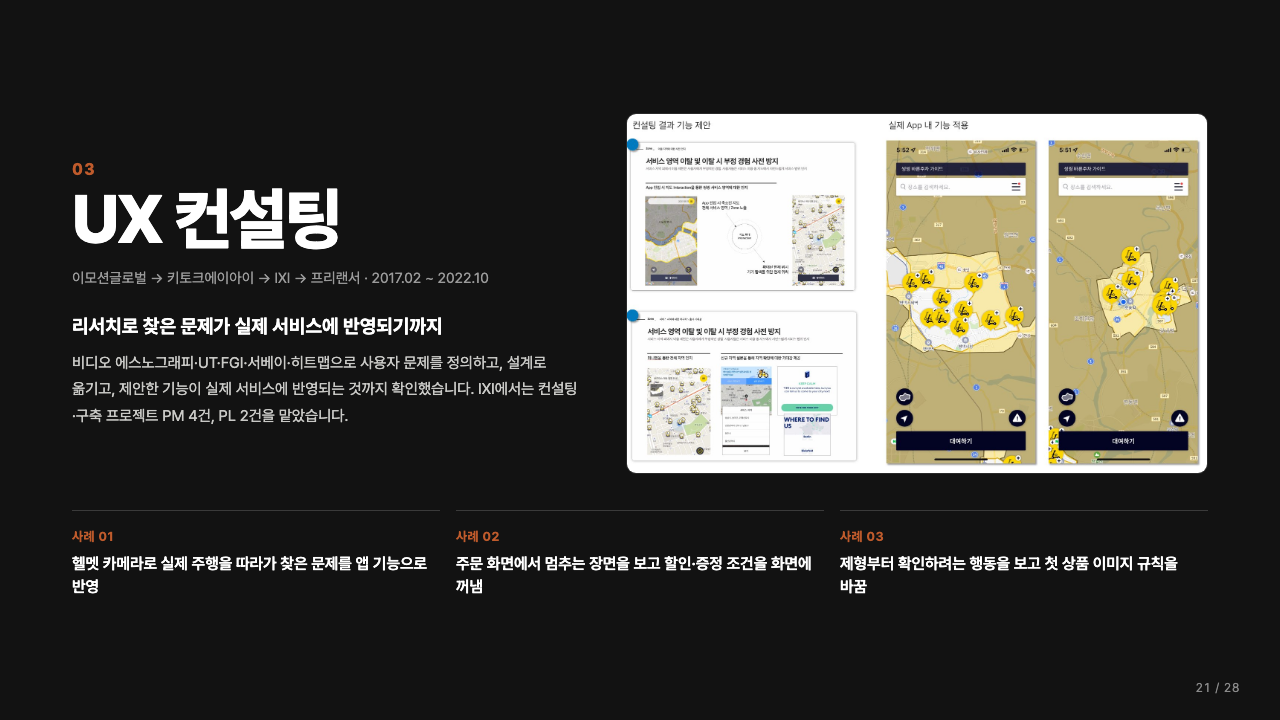
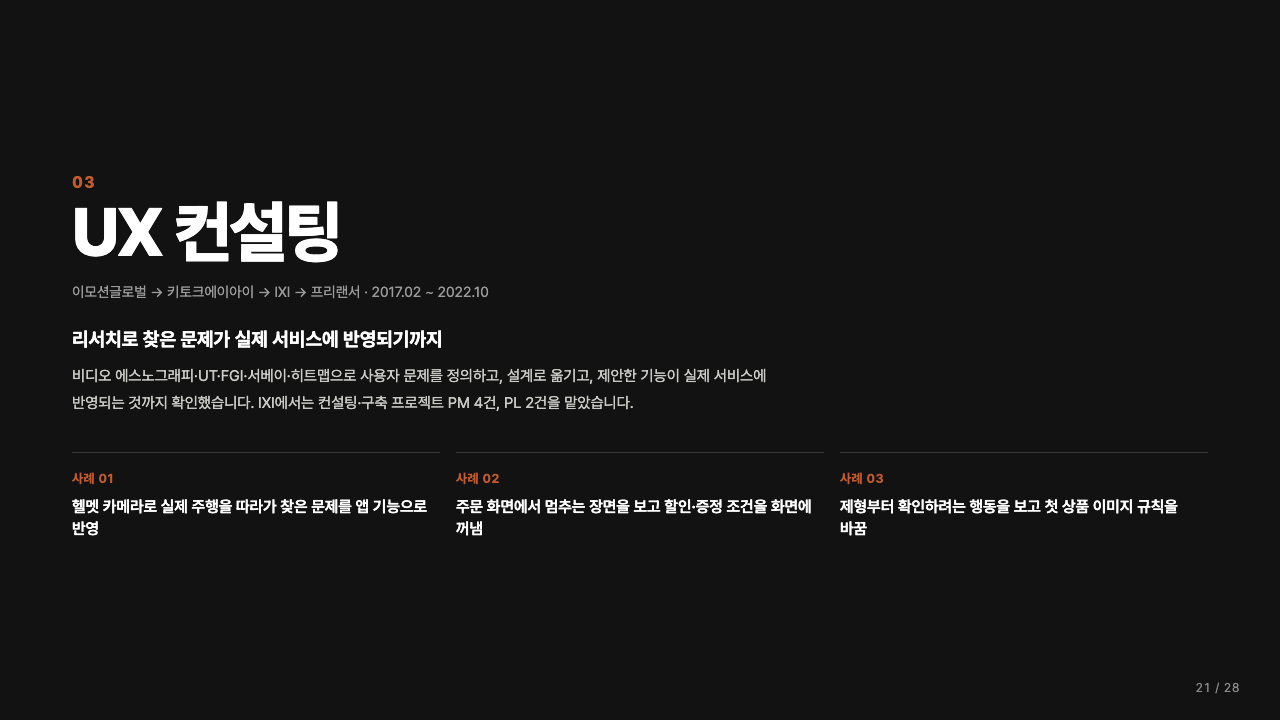
docs: review checklist for pages 12-28, handoff note

Changed region(s): [[0.0312, 0.1528, 0.9688, 0.825]]

diff --git a/docs/review/next-review-checklist.md b/docs/review/next-review-checklist.md
@@ -1,0 +1,46 @@
+# 웹 초안 28장 — 검토 체크리스트 (12 ~ 28쪽 신규)
+
+보는 곳: 슬라이드 보기 http://localhost:5180/drafts/web/deck · 장별 이미지 `docs/review/slides/NN-*.png`
+관점: PO 채용을 고민하는 리드 PO가 읽었을 때 이해되는지. 모든 장이 16:9 한 장 안에 들어감(자동 축소 없음).
+
+## 전체 구성 (28장)
+
+| 쪽 | 구역 | 비고 |
+|---|---|---|
+| 1 ~ 4 | 히어로 · 요약 · 숫자 · 경력 | 이전에 확정 |
+| 5 | **01 AIMMO** 장 표지(검정) | 이전에 확정 |
+| 6 ~ 8 | 사례 01 검수 (표지 · 문제 · 해결) | 이전에 확정 |
+| 9 ~ 11 | 사례 02 폴리라인 포인트 (표지 · 문제 · 해결) | 이전에 확정 |
+| **12 ~ 14** | 사례 03 사용자 조사 세션 (표지 · 문제 · 해결) | 신규 |
+| **15** | LG AI연구원 온프레미스 납품 (1장) | 신규 |
+| **16** | AIMMO 제품 결정 기록 (1장) | 신규 |
+| **17** | **02 AI 전환** 장 표지(검정) | 신규 |
+| **18 ~ 20** | LG화학 제안 · AX 프레임워크 · 기업 AI 교육 (각 1장) | 신규 |
+| **21** | **03 UX 컨설팅** 장 표지(검정) | 신규 |
+| **22 ~ 25** | 씽씽(2장) · Amway · 정관장 | 신규 |
+| **26 ~ 28** | 그 밖의 프로젝트 · 사이드 프로젝트 · 마지막 장 | 신규 |
+
+## 내가 추론해서 쓴 문장 (사실 확인 필요)
+
+- **13쪽 사례 03 문제**: "요청은 흩어져 **우선순위가 서지 않음**" — 흩어져 있었다는 건 확정된 사실이고, 우선순위 부분은 추론
+- **13쪽 예시 상자**: "라벨링이 빠진 포인트를 화면에서 하나씩 눈으로 찾아야 했음" — 세션 개선 항목(누락 포인트 시인성 개선)에서 거꾸로 만든 예시
+- **16쪽 결정 기록 근거 칸**
+  - 1행 유효성 검사: "프로젝트가 다양해지며 개별 설정 방식으로는 확장이 어려움" — 카드의 "프로젝트 다양화에 확장 가능"을 근거로 풀어 씀
+  - 3행 RV 연동: "작업·참조 리소스 조합이 네 가지" — 사실이지만, 그래서 단계적으로 냈다는 이유는 기록에 없음
+- **17쪽 장 이름 "AI 전환"**: J-Curve와 교육을 하나로 묶으려고 지은 이름
+- **23쪽 씽씽 제목**: "운영비가 걸린 문제는 실제 주행으로 검증" — Geo-Fence ↔ 비디오 에스노그래피 연결은 카드에 있는 사실. 나머지 두 문제와 리서치의 1:1 연결은 기록에 없어서 표로 짝짓지 않고 두 목록으로 나눔
+
+## 리드 PO 관점에서 남은 약점
+
+1. **사례 03 해결(14쪽)** — 성과가 기능 목록이라 "그래서 효율이 얼마나 올랐나"가 없음. 세션 출신 개선의 체감 효과(예: 작업 시간, 오류 감소)가 기억나면 숫자 한 줄 추가 권장
+2. **LG 온프렘(15쪽)** — 이미지 없음. 납품 화면을 쓸 수 없다면 지금처럼 글 3칸으로 충분하지만, "최소 수정"이 얼마나 최소였는지(예: 바꾼 화면 수, 재사용 비율)가 있으면 결정이 훨씬 설득력 있음
+3. **결정 기록(16쪽)** — 리드 PO가 가장 좋아할 장. 각 결정의 "결과"가 아직 계획 수준인 행(성능 개선 로드맵, 모달 대체 여부)이 있음. 실제로 어떻게 끝났는지 알면 보강
+4. **AI 전환(18 ~ 20쪽)** — 미수주 제안이 사례 01이라, AI 전환 장의 첫인상이 "결과 없음"으로 읽힐 수 있음. 순서를 교육(진행 중, 실적 있음) → 프레임워크 → 제안으로 바꾸는 것도 방법
+5. **UX 장(21 ~ 25쪽)** — 사례 01(씽씽)만 2장, Amway·정관장은 1장. 이미지가 산출물(와이어프레임)이라 결과가 눈에 덜 들어옴
+6. **이미지 중복 없음** 확인함. BMW BEV · Bosch 실제 화면은 아직 없음(9쪽은 설명 도식으로 대체)
+
+## 웹 초안에서 뺀 것 (원래 슬라이드에는 있었음)
+
+- 슬라이드 10 AIMMO 커버의 "Bosch·Arbe 6개월 이상" (쓰지 않기로 한 표현)
+- 노션 카드의 투입 시간(h), 'Latex V2', HIG(Baobab), 신선피엔에프 테스트 케이스
+- 영어 방법론 용어(Discover/Define/Develop/Deliver 등) → 한국어로 풀어 씀

diff --git a/HANDOFF.md b/HANDOFF.md
@@ -13,6 +13,7 @@
 - 숫자 5개 확정: 9년 차(실근무 8년 10개월이라 "9년 차") · UX 컨설팅·서비스 기획 프로젝트 17건(브랜드 15곳, 노션 카드 기준) · 리서치 참여자 620명+(씽씽 164 + 정관장 210 + 제주지니 255) · 2.5년 매주 정기 배포 · 개선·운영 태스크 200건+(근거 줄에 "2024년 한 해 106건 기록"). BMW 5개년은 숫자 섹션에서 뺌
 - 사례 01(검수) 확정 사실: AS-IS 추가 시간 = 화면 전환 최소 5초 + 할당 확인 대기 최소 5초 + 수정 대기 최소 30초 + 검수 재확인 최소 10초 → **간단한 수정 1건에 약 50초 ~ 1분 추가**. 핵심은 "간단한 수정 작업". 사례 01 제목·부제는 전체를 본 뒤 이 내용으로 다시 정하기로 함(단계 수 6/9도 그때 정리). 효과의 "건당 최소 10초 단축"과의 관계도 그때 맞출 것
 - 사례 02(글로벌 수주) 확정 사실(10/18): BMW BEV = 주행 사진을 버드아이뷰로 이어 붙인 한 장의 이미지 위에 폴리라인 포인트를 그리고, **포인트마다 클래스·속성 지정**(기존에 없던 방식). 기존 스튜디오는 싱글·시퀀스 이미지만. Bosch도 같은 폴리라인 포인트 기능(기록: Bosch 데모→운영 배포 2023.11.28~2024.01.29, 키노트 메모 "폴리라인 포인트 운영 배포 for BMW BEV"). Arbe는 "추가 계약 **기여**"로 표기(정확하지 않음). 경쟁사 수는 쓰지 않음, 기한은 "짧았다"로만. BMW 데모 날짜는 원천에 없음. 이미지: Arbe는 `assets/img/aimmo-arbe-radar.jpg`(영상 18초 캡처), BMW BEV·Bosch 이미지는 사용자가 찾아오기로 함
+- 10/18 저녁: 웹 초안 28장 전체 완성(사례 03, LG 온프렘, 결정 기록, 02 AI 전환 장, 03 UX 장, 사이드, 마지막 장). 슬라이드 보기 `drafts/web/deck.html`, 장별 이미지 `docs/review/slides/`, 검토 체크리스트 `docs/review/next-review-checklist.md`. 다음: 사용자와 12쪽부터 한 장씩 검토 → 이후 웹 초안을 slides/*.md로 옮기는 작업
 - 미결: 표지(슬라이드)와 About이 같은 포지셔닝 문장을 쓰는 문제 (가/나안), 국문 이력서 Summary에도 "Bosch·Arbe 6개월 이상" 남아 있음
 
 ## 0-0. ▶ 여기서 이어서 (2026-10-17 밤 중단 → 다음 세션에서 11번부터)
